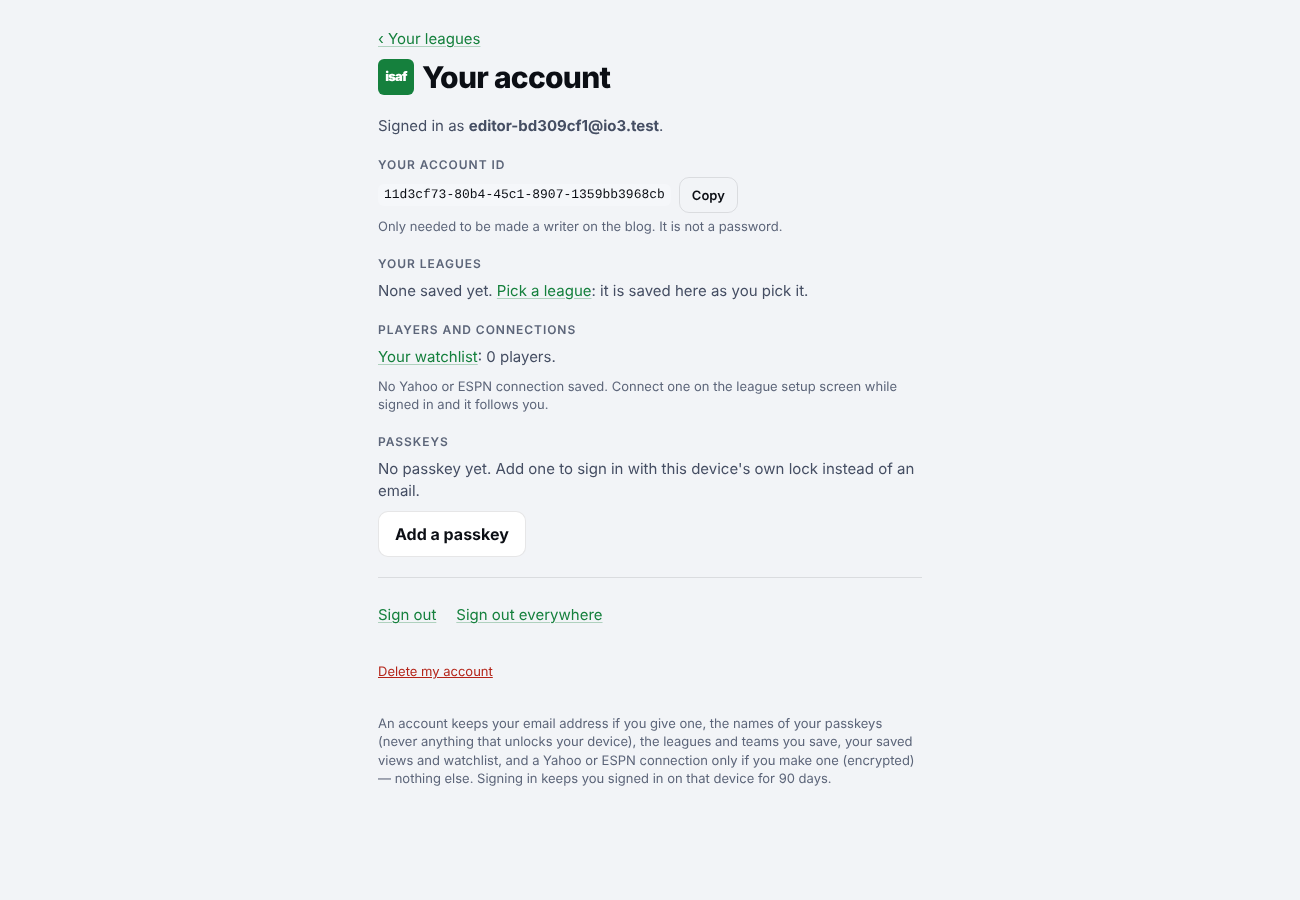
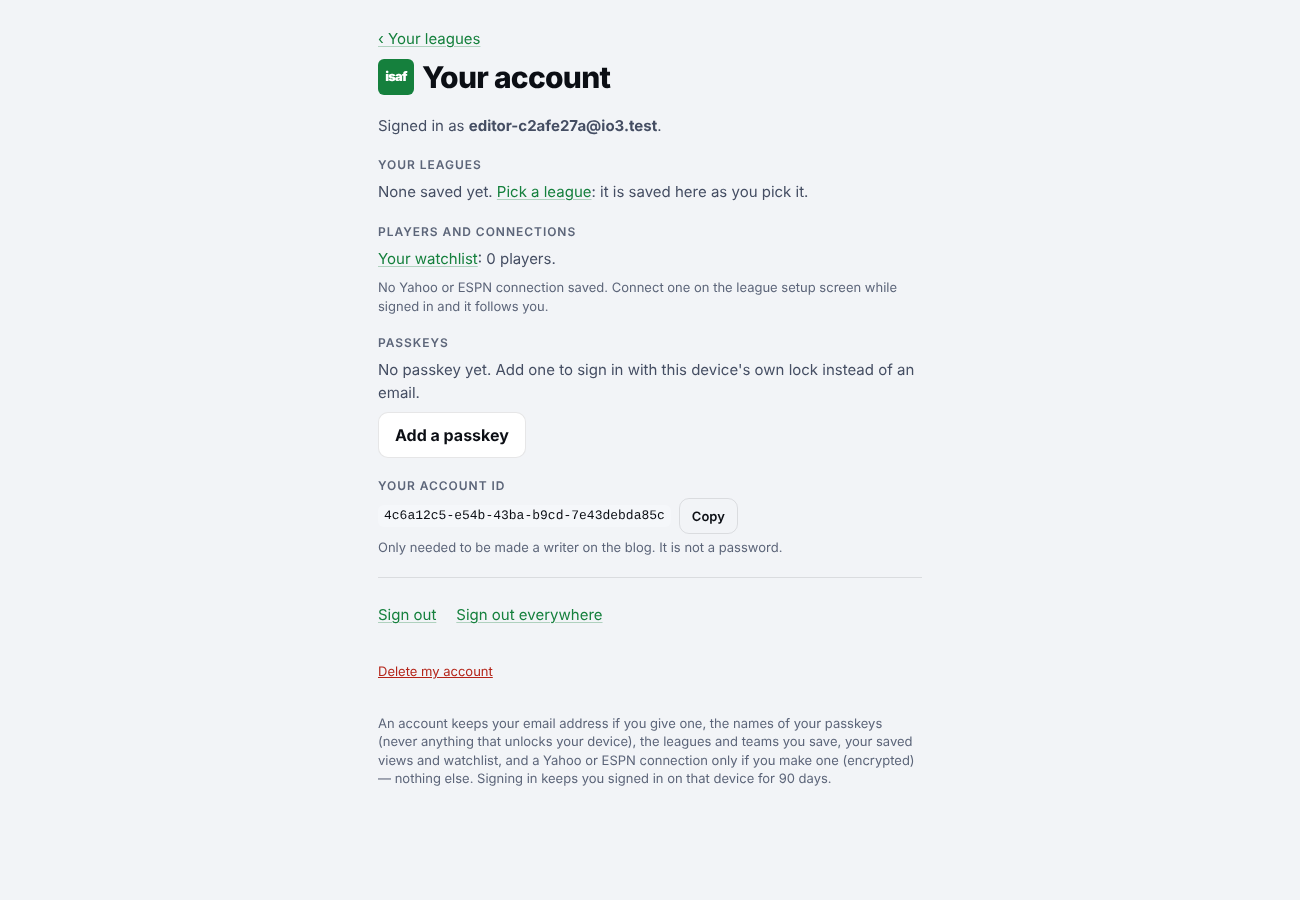
IO-3: the account id below the passkeys (rarely needed); e2e for the other two starters
Claude-Session: https://claude.ai/code/session_01RzBBxEYn5XXDGdXUHqPJ42

diff --git a/web/e2e/io3/fixtures.spec.ts b/web/e2e/io3/fixtures.spec.ts
@@ -273,6 +273,27 @@ test("a starter fills a draft from this week's numbers and never publishes", asy
   await page.screenshot({ path: join(SHOTS, `io3-starter-${info.project.name === "desktop" ? 1300 : 375}.png`), fullPage: true });
 });
 
+test("the other two starters: projections by position in tables, roles up and down", async ({ page, isMobile }) => {
+  test.skip(isMobile, "one viewport is enough for the starters' words");
+  test.setTimeout(90_000);
+  await asEditor(page);
+  await page.goto(`${API}/blog/new`);
+  await page.getByTestId("starter-projections").click();
+  await expect(page.getByTestId("editor-title")).toHaveValue(/This week's top projections and their ranges/, { timeout: 30_000 });
+  const body = await page.getByTestId("editor-body").inputValue();
+  for (const h of ["## Quarterbacks", "## Running backs", "## Wide receivers", "## Tight ends", "| Player | Game | Projection | Range (10th to 90th) |", "*Your take: …*"])
+    expect(body).toContain(h);
+  await expect(page.getByTestId("editor-preview").locator("table")).toHaveCount(4);
+  await inert(page, '[data-testid="editor-preview"]');
+  // a second starter on a fresh post
+  await page.goto(`${API}/blog/new`);
+  await page.getByTestId("starter-roles").click();
+  await expect(page.getByTestId("editor-title")).toHaveValue(/Players whose role is changing/, { timeout: 30_000 });
+  const roles = await page.getByTestId("editor-body").inputValue();
+  for (const h of ["## A bigger role lately", "## A smaller role lately", "## What this measures", "*As of "]) expect(roles).toContain(h);
+  await expect(page.getByTestId("editor-status")).toHaveText("Draft", { timeout: 15_000 });
+});
+
 test("a visitor sees no Write and the editor's address says to sign in; the account shows its id", async ({ page, browser, isMobile }) => {
   await page.goto(`${API}/blog`);
   await expect(page.getByTestId("blog")).toBeVisible();

diff --git a/web/src/routes/Account.svelte b/web/src/routes/Account.svelte
@@ -238,7 +238,6 @@
       {#if notice}
         <p class="rounded-md bg-accent-soft px-3 py-2 text-sm font-semibold" role="status" data-testid="account-notice-line">{notice}</p>
       {/if}
-      <AccountId id={(me as { id?: string }).id} /><!-- ---- IO-3: the account id, with Copy (LEAGUE_LAB_EDITORS) -->
 
       {#if toSave.length}
         <section class="space-y-2 rounded-lg border border-line bg-surface p-4" data-testid="save-local">
@@ -375,6 +374,7 @@
         </section>
       {/if}
       <!-- ---- end IM-4 -->
+      <AccountId id={(me as { id?: string }).id} /><!-- ---- IO-3: the account id, with Copy (LEAGUE_LAB_EDITORS) -->
 
       <section class="space-y-3 border-t border-line pt-4">
         <div class="flex flex-wrap gap-x-5 gap-y-2 text-base">
